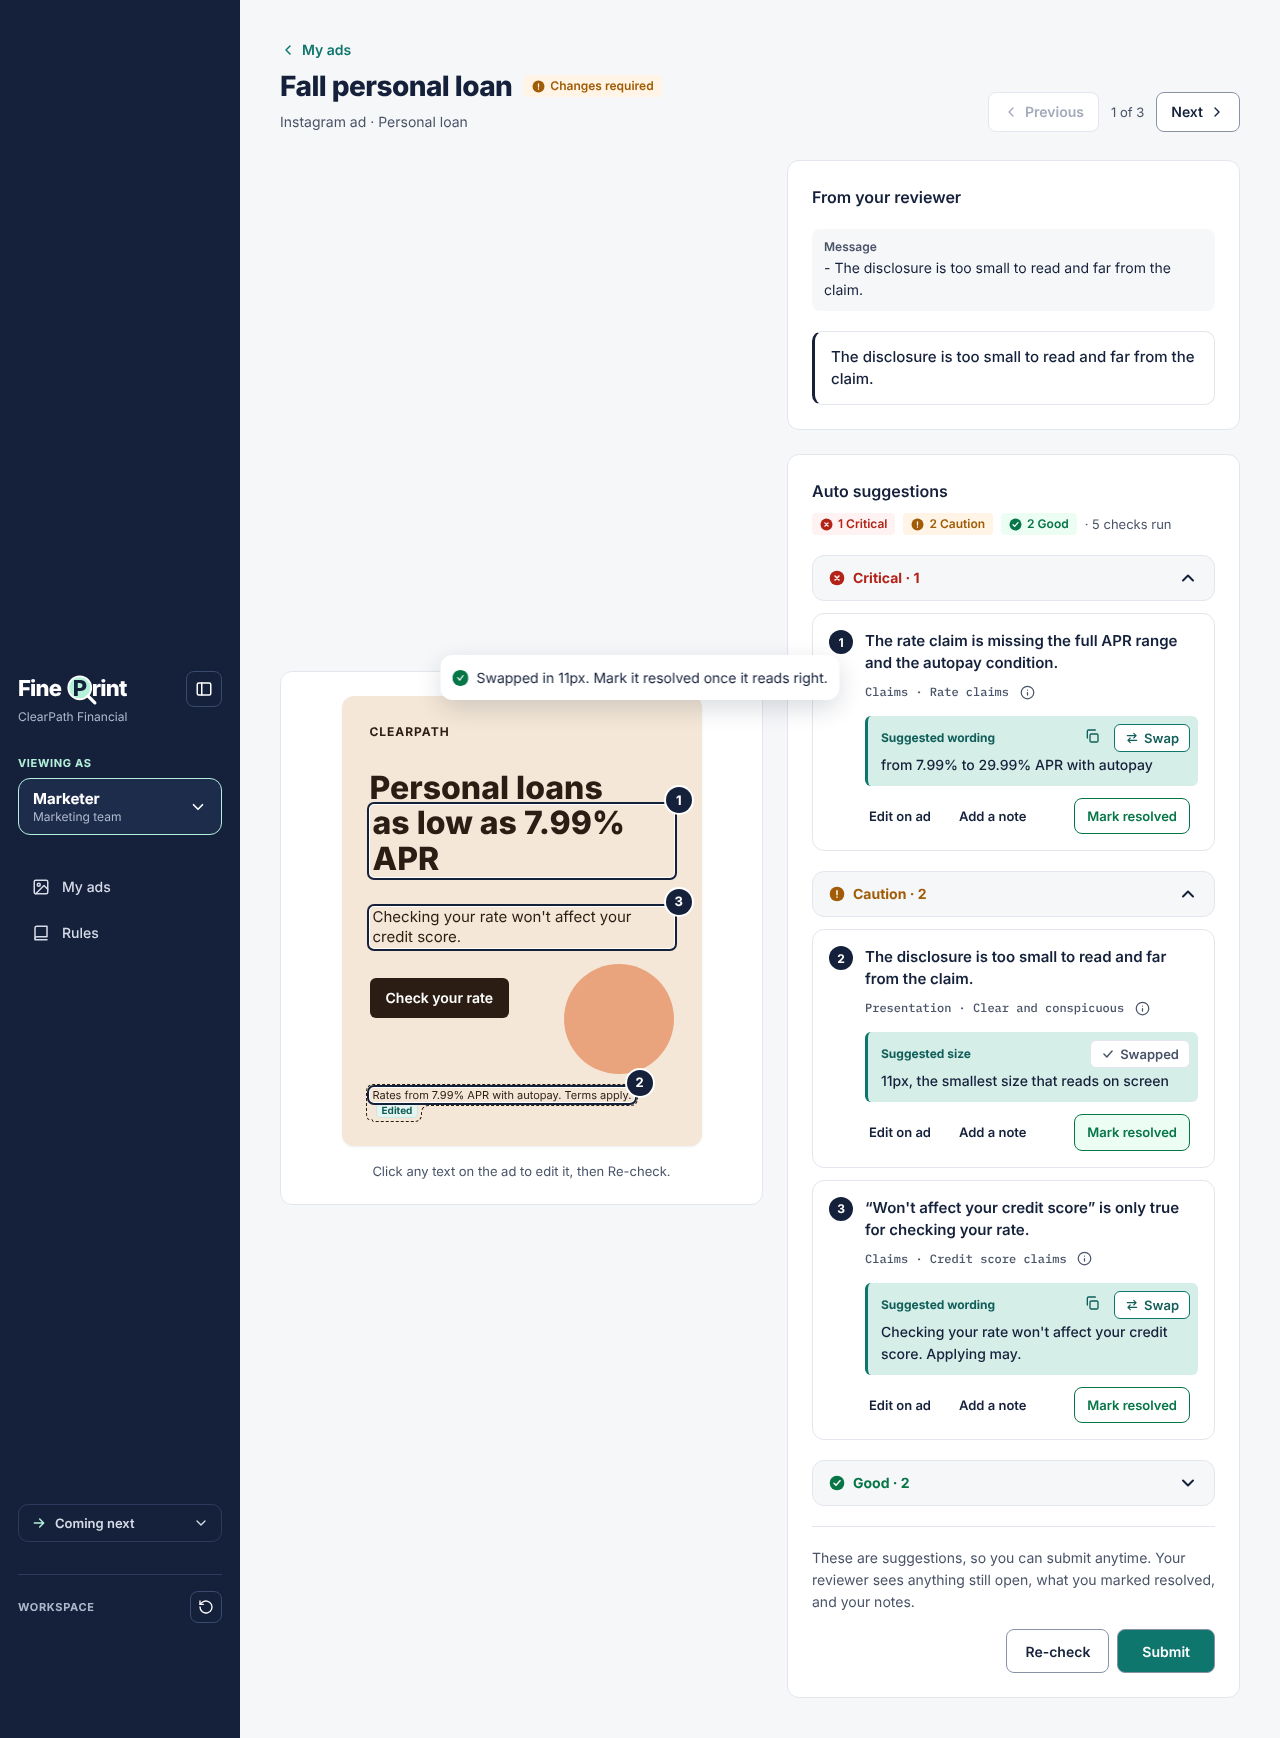
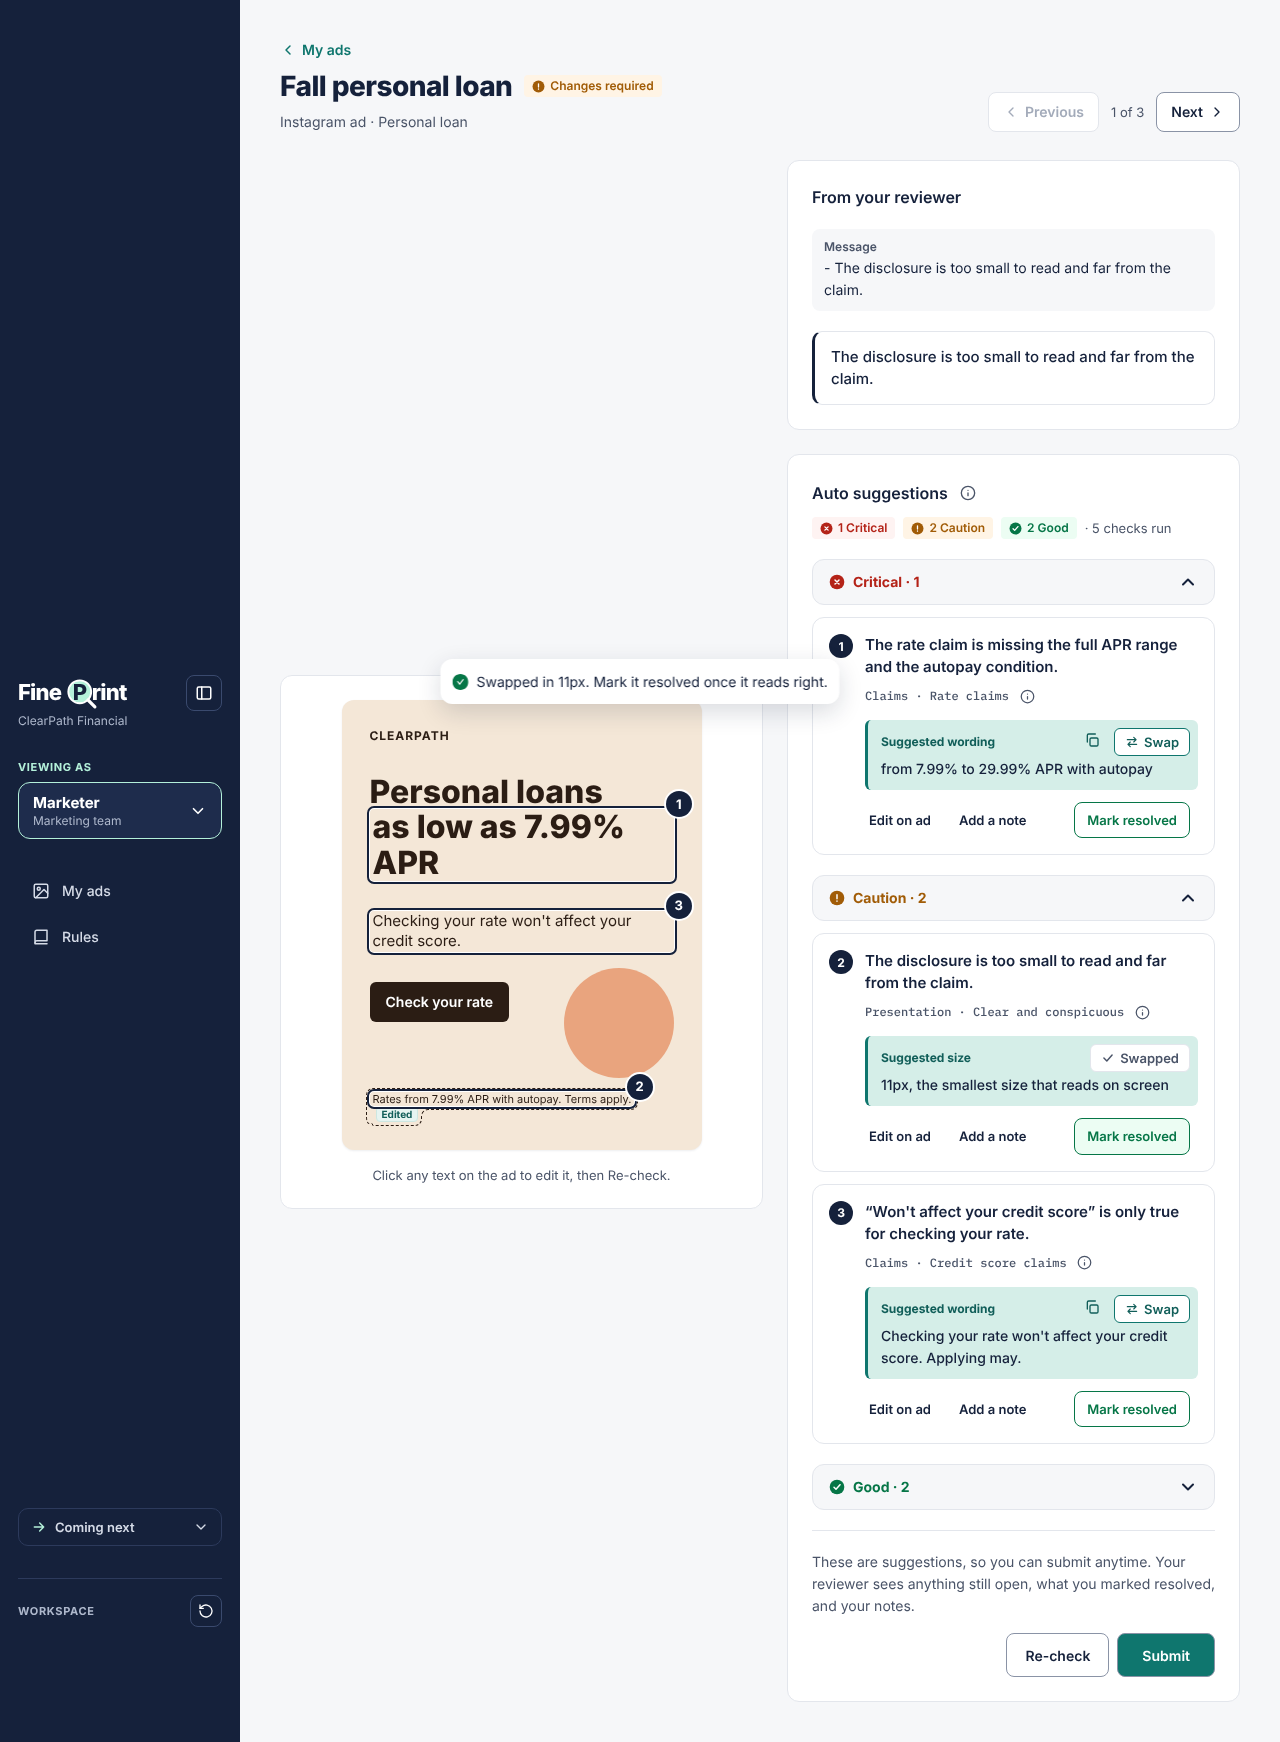
Review: the ad stays in view; Your findings first; Add a finding opens the box
Like Pre-check: the ad (or v1 above v2) stays in view on the left, clear
of the decision bar; on the right, Your findings comes first, then the
auto suggestions. The finding box opens from Add a finding. The auto
suggestion note now says the suggestions come from AI (owner's call).

Claude-Session: https://claude.ai/code/session_01GajTyz92bBm6dN9cgoMqN2

diff --git a/src/review/YourFindings.tsx b/src/review/YourFindings.tsx
@@ -127,6 +127,7 @@ export function YourFindings({
   onSelect: (n: number) => void
 }) {
   const [text, setText] = useState('')
+  const [writing, setWriting] = useState(false)
   const [adding, setAdding] = useState(false)
   const [error, setError] = useState(false)
 
@@ -140,6 +141,7 @@ export function YourFindings({
       await onAdd(text.trim())
       setText('')
       setError(false)
+      setWriting(false)
     } finally {
       setAdding(false)
     }
@@ -183,11 +185,19 @@ export function YourFindings({
           onSelect={() => onSelect(reviewerN(finding))}
         />
       ))}
-      {!readOnly && (
+      {!readOnly && !writing && (
+        <div>
+          <Button icon={<Icon name="plus" size={16} strokeWidth={2.4} />} onClick={() => setWriting(true)} style={{ minHeight: 40, padding: '0 16px' }}>
+            Add a finding
+          </Button>
+        </div>
+      )}
+      {!readOnly && writing && (
         <>
           <label style={{ display: 'flex', flexDirection: 'column', gap: 8, fontSize: 13, fontWeight: 600, color: '#4A5468' }}>
             Add a finding
             <Input.TextArea
+              autoFocus
               rows={4}
               value={text}
               status={error ? 'error' : undefined}
@@ -205,7 +215,16 @@ export function YourFindings({
               Write what needs to change first.
             </span>
           )}
-          <div style={{ display: 'flex', justifyContent: 'flex-end' }}>
+          <div style={{ display: 'flex', justifyContent: 'flex-end', gap: 8 }}>
+            <Button
+              onClick={() => {
+                setWriting(false)
+                setError(false)
+              }}
+              style={{ minHeight: 40 }}
+            >
+              Cancel
+            </Button>
             <Button type="primary" onClick={add} loading={adding} style={{ minHeight: 40, padding: '0 18px' }}>
               Add finding
             </Button>

diff --git a/src/pages/ReviewPage.tsx b/src/pages/ReviewPage.tsx
@@ -274,7 +274,18 @@ function ReviewScreen({ detail, reload, onCleared }: { detail: AdDetail; reload:
       </div>
 
       <div style={{ display: 'flex', flexWrap: 'wrap', gap: 24, alignItems: 'flex-start' }}>
-        <div style={{ flex: '1 1 420px', minWidth: 0, display: 'flex', flexDirection: 'column', gap: 24 }}>
+        {/* The ad stays in view while the findings scroll, as in Pre-check, clear of the decision bar. */}
+        <div
+          style={{
+            flex: '1 1 420px',
+            minWidth: 0,
+            position: 'sticky',
+            top: 24,
+            maxHeight: pending ? 'calc(100vh - 136px)' : 'calc(100vh - 48px)',
+            overflowY: 'auto',
+            borderRadius: 12,
+          }}
+        >
           {comparison ? (
             <CompareVersions comparison={comparison} markers={markers} selected={selected} onSelect={selectFromAd} />
           ) : (
@@ -282,6 +293,9 @@ function ReviewScreen({ detail, reload, onCleared }: { detail: AdDetail; reload:
               <AdView content={current} markers={markers} selected={selected} onSelect={selectFromAd} />
             </section>
           )}
+        </div>
+        {/* Your findings first, like "From your reviewer" on the marketer's side, then the auto check. */}
+        <div style={{ flex: '1 1 420px', minWidth: 0, display: 'flex', flexDirection: 'column', gap: 24 }}>
           <YourFindings
             findings={reviewerFindings}
             readOnly={readOnly}
@@ -292,8 +306,8 @@ function ReviewScreen({ detail, reload, onCleared }: { detail: AdDetail; reload:
             selected={selected}
             onSelect={selectFromCard}
           />
+          {groups}
         </div>
-        <div style={{ flex: '1 1 420px', minWidth: 0 }}>{groups}</div>
       </div>
 
       {pending && (

diff --git a/e2e/reviewer-quotes.spec.ts b/e2e/reviewer-quotes.spec.ts
@@ -9,6 +9,7 @@ test('a reviewer finding that quotes the ad is pinned there, for both roles, and
   await page.goto('/review/3')
 
   // Quoted words that are on the ad get a person pin, linked to the card.
+  await page.getByRole('button', { name: 'Add a finding' }).click()
   await page.getByPlaceholder('What does the submitter need to fix? Quote the words if you can.').fill('Drop “As low as 7.99% APR”: show the full range.')
   await page.getByRole('button', { name: 'Add finding' }).click()
   const pin = page.getByRole('button', { name: /^Reviewer finding: Drop/ })
@@ -17,6 +18,7 @@ test('a reviewer finding that quotes the ad is pinned there, for both roles, and
   await expect(pin).toHaveAttribute('aria-pressed', 'true')
 
   // Words that aren't on the ad stay plain text.
+  await page.getByRole('button', { name: 'Add a finding' }).click()
   await page.getByPlaceholder('What does the submitter need to fix? Quote the words if you can.').fill('Add “then 20.24% variable APR” after it.')
   await page.getByRole('button', { name: 'Add finding' }).click()
   await expect(page.getByText('FROM YOU')).toHaveCount(2)

diff --git a/e2e/a11y.spec.ts b/e2e/a11y.spec.ts
@@ -54,7 +54,7 @@ test('keyboard: tab through Review, keep a suggestion, open a pin', async ({ pag
   }
   const names = visited.map((v) => v.split('|')[0])
   // The reviewer reaches the pins, the cards' actions and every decision by keyboard alone.
-  for (const expected of ['Finding 1: The rate claim is missing the full APR range and the autopay condition.', 'Keep', 'Dismiss…', 'Add finding', 'Approve']) {
+  for (const expected of ['Finding 1: The rate claim is missing the full APR range and the autopay condition.', 'Keep', 'Dismiss…', 'Add a finding', 'Approve']) {
     expect(names.some((n) => n.startsWith(expected))).toBe(true)
   }
   // Every focused element shows the visible focus ring.

diff --git a/e2e/review.spec.ts b/e2e/review.spec.ts
@@ -48,6 +48,7 @@ test('keep, edit, dismiss with a reason, restore', async ({ page }) => {
 test('reviewer requests changes on Fall personal loan', async ({ page }) => {
   await page.goto('/review/3')
   await page.locator('[data-finding="1"]').getByRole('button', { name: 'Keep' }).click()
+  await page.getByRole('button', { name: 'Add a finding' }).click()
   await page.getByPlaceholder('What does the submitter need to fix? Quote the words if you can.').fill('Pick an image that doesn’t suggest same-day cash.')
   await page.getByRole('button', { name: 'Add finding' }).click()
   await expect(page.getByText('FROM YOU')).toBeVisible()

diff --git a/e2e/screenshots.spec.ts b/e2e/screenshots.spec.ts
@@ -57,6 +57,7 @@ test('04 queue, 05 review, 06 what changed, 07 other formats, 08 history', async
   await page.locator('[data-finding="1"]').getByRole('button', { name: 'Keep' }).click()
   await expect(page.locator('[data-finding="1"]').getByRole('button', { name: 'Kept' })).toBeVisible()
   await page.getByRole('button', { name: /^Finding 1:/ }).click()
+  await page.getByRole('button', { name: 'Add a finding' }).click()
   await page.getByPlaceholder('What does the submitter need to fix? Quote the words if you can.').fill(
     "The photo makes the loan look instant. Pick an image that doesn't suggest same-day cash.",
   )

diff --git a/e2e/tour.spec.ts b/e2e/tour.spec.ts
@@ -16,6 +16,7 @@ test('README tour', async ({ page }) => {
   // 2. Review Fall personal loan.
   await page.goto('/review/3')
   await page.locator('[data-finding="1"]').getByRole('button', { name: 'Keep' }).click()
+  await page.getByRole('button', { name: 'Add a finding' }).click()
   await page.getByPlaceholder('What does the submitter need to fix? Quote the words if you can.').fill("Pick an image that doesn't suggest same-day cash.")
   await page.getByRole('button', { name: 'Add finding' }).click()
   await expect(page.getByText('FROM YOU')).toBeVisible()

diff --git a/src/findings/parts.tsx b/src/findings/parts.tsx
@@ -160,7 +160,7 @@ export function Group({
   )
 }
 
-const AUTO_DISCLAIMER = 'Auto suggestions are generated automatically and can be wrong. Use them as a starting point; the call is yours.'
+const AUTO_DISCLAIMER = 'Auto suggestions are generated automatically by AI and can be wrong. Use them as a starting point; the call is yours.'
 
 /** A panel title for anything the auto check wrote, with what to keep in mind about it. */
 export function AutoTitle({ id, children }: { id: string; children: ReactNode }) {

diff --git a/BLOCKED.md b/BLOCKED.md
@@ -53,3 +53,5 @@ The data model's `applies_to` allows products and/or "affiliate", but the 10-Add
 - **Changes required hands an internal ad to marketing.** CLAUDE.md seeds My ads as ads 1–5 and 12–14. When a reviewer requests changes on any other internal ad, it now lands in My ads too (Undo takes it back), so the marketer can Pre-check and resubmit it. Affiliate ads don't: affiliates don't log in.
 - **No Add a rule** (owner's call, to keep the scope testable). The Rules page is read-only for both roles. The data model still has custom rules (`is_custom`), and the live check would use them, but there's no way to add one in the app.
 - **Coming next takes votes** (owner's call). CLAUDE.md calls the items "roadmap items, not links". They're still not features: each opens a card that says it's coming next and asks "Would you use it?", a fake-door test to decide what to build first.
+- **One mention of AI in the UI** (owner's call): the info tooltip on Auto suggestions and What changed says "Auto suggestions are generated automatically by AI and can be wrong. Use them as a starting point; the call is yours." Everywhere else it's still "auto check" and "Auto suggestions".
+- **Review layout follows Pre-check** (owner's call): the ad (or v1/v2) stays in view on the left; on the right, Your findings comes first, like "From your reviewer" for the marketer, then the auto suggestions. The finding box opens from an "Add a finding" button instead of always showing (the wireframe has it under the ad, always open).
